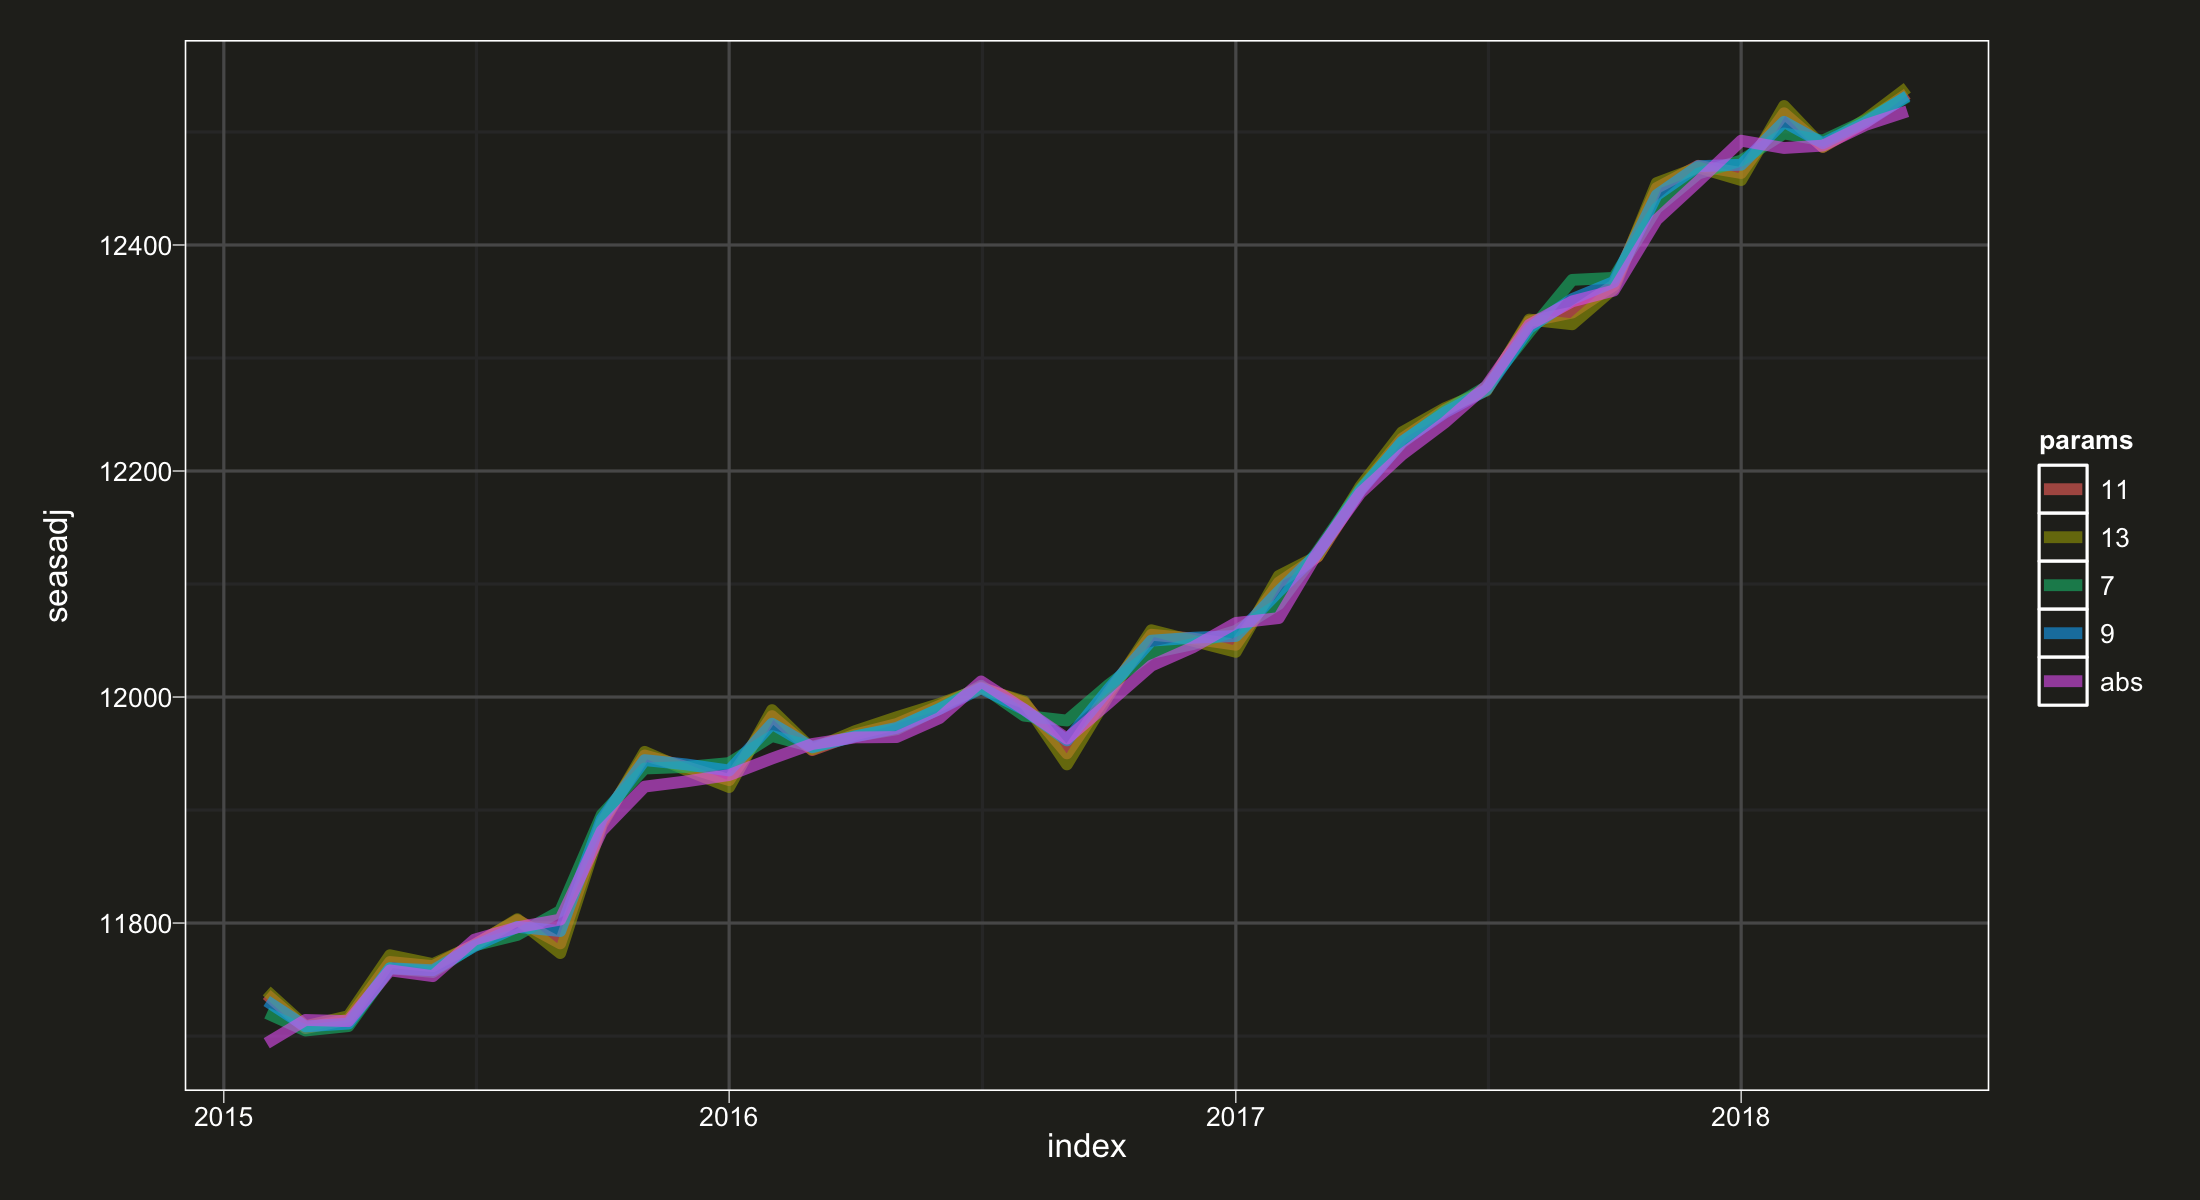
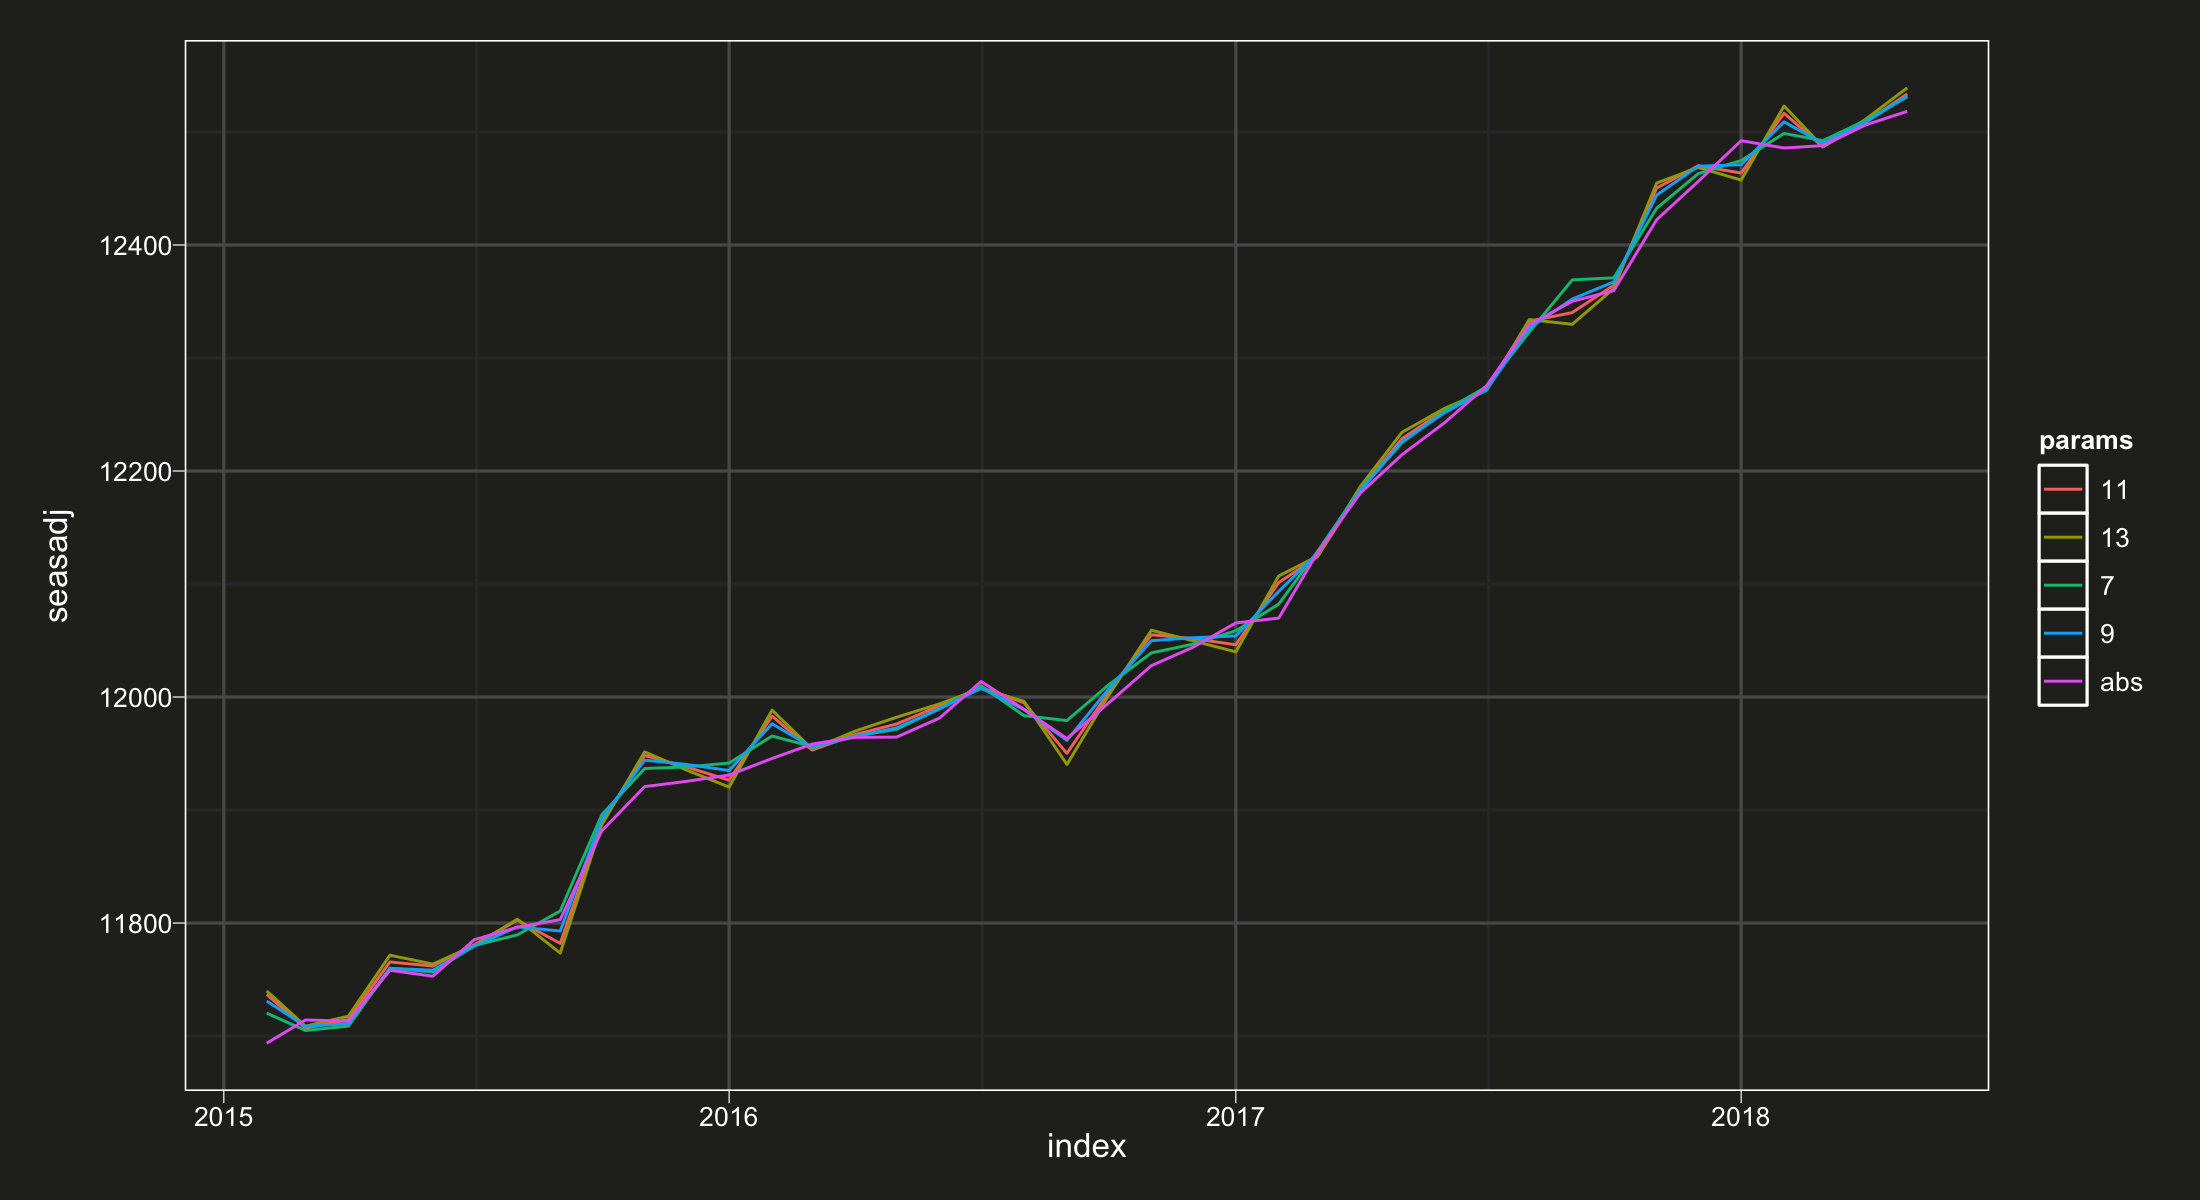
update seasadj

diff --git a/index.html b/index.html
@@ -511,7 +511,7 @@ class: inverse
 
 ```r
 ggplot(seasadj_compare_df, aes(index, seasadj, col = params)) +
-  geom_line(size = 2, alpha = 0.6)
+  geom_line()
 ```
 
 ![](index_files/figure-html/unnamed-chunk-23-1.png)&lt;!-- --&gt;
